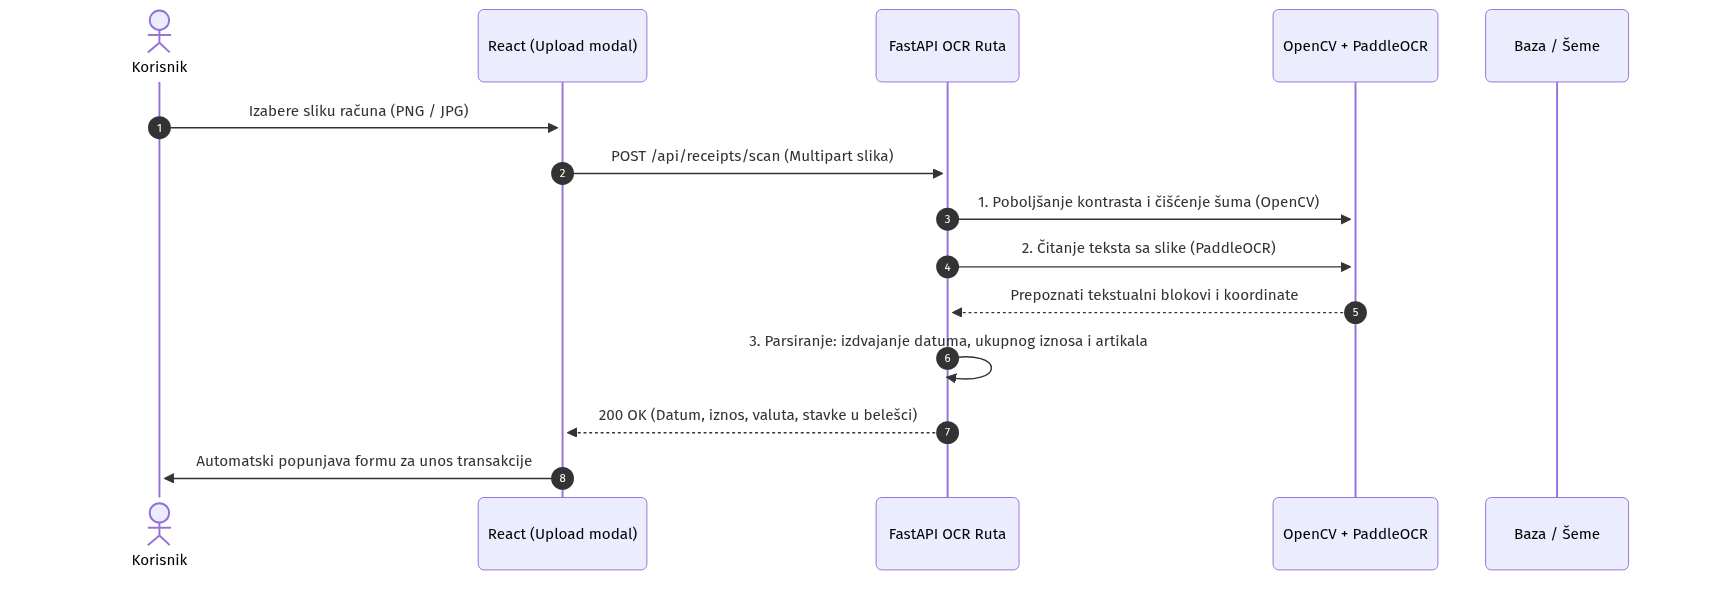
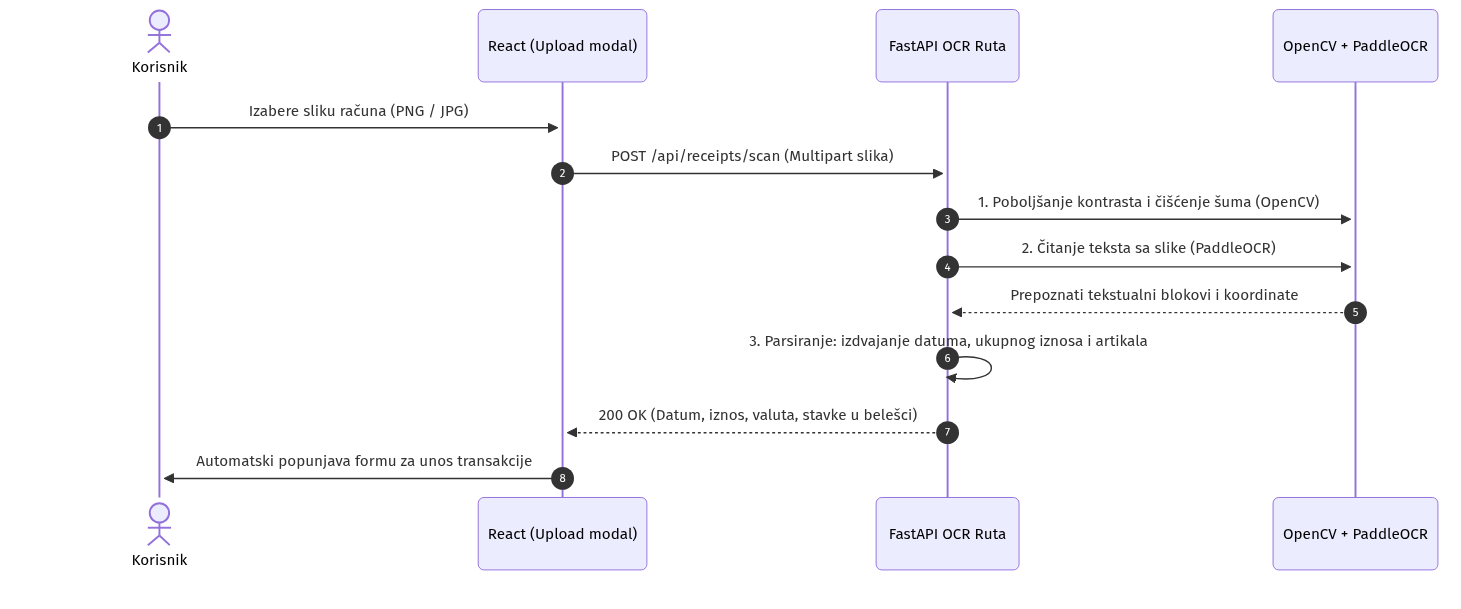
remove unused table

diff --git a/backend/alembic/versions/96ee14c735aa_initial_migration.py b/backend/alembic/versions/96ee14c735aa_initial_migration.py
@@ -178,34 +178,9 @@ def upgrade() -> None:
         if 'secondary_currency' in tx_cols:
             op.drop_column('transactions', 'secondary_currency')
 
-    # 5. Receipts table
-    if 'receipts' not in existing_tables:
-        op.create_table(
-            'receipts',
-            sa.Column('id', sa.Integer(), autoincrement=True, nullable=False),
-            sa.Column('transaction_id', sa.Integer(), nullable=True),
-            sa.Column('image_path', sa.String(length=500), nullable=False),
-            sa.Column('ocr_raw_text', sa.Text(), nullable=True),
-            sa.Column('created_at', sa.DateTime(timezone=True), server_default=sa.text('CURRENT_TIMESTAMP'), nullable=False),
-            sa.ForeignKeyConstraint(['transaction_id'], ['transactions.id'], ondelete='SET NULL'),
-            sa.PrimaryKeyConstraint('id'),
-            sa.UniqueConstraint('transaction_id'),
-        )
-        op.create_index(op.f('ix_receipts_id'), 'receipts', ['id'], unique=False)
-    else:
-        rec_cols = {c['name']: c for c in inspector.get_columns('receipts')}
-        if 'transaction_id' not in rec_cols:
-            op.add_column('receipts', sa.Column('transaction_id', sa.Integer(), nullable=True))
-        if 'image_path' not in rec_cols:
-            op.add_column('receipts', sa.Column('image_path', sa.String(length=500), server_default='', nullable=False))
-        if 'ocr_raw_text' not in rec_cols:
-            op.add_column('receipts', sa.Column('ocr_raw_text', sa.Text(), nullable=True))
-
 
 def downgrade() -> None:
     """Downgrade schema."""
-    op.drop_index(op.f('ix_receipts_id'), table_name='receipts')
-    op.drop_table('receipts')
     op.drop_index(op.f('ix_transactions_user_id'), table_name='transactions')
     op.drop_index(op.f('ix_transactions_to_account_id'), table_name='transactions')
     op.drop_index(op.f('ix_transactions_tag'), table_name='transactions')

diff --git a/backend/app/models/transaction.py b/backend/app/models/transaction.py
@@ -9,7 +9,6 @@ if TYPE_CHECKING:
     from app.models.user import User
     from app.models.account import Account
     from app.models.category import Category
-    from app.models.receipt import Receipt
 
 
 class Transaction(Base):
@@ -39,12 +38,6 @@ class Transaction(Base):
     account: Mapped["Account"] = relationship("Account", foreign_keys=[account_id], back_populates="transactions")
     to_account: Mapped[Optional["Account"]] = relationship("Account", foreign_keys=[to_account_id])
     category: Mapped[Optional["Category"]] = relationship("Category", back_populates="transactions")
-    receipt: Mapped[Optional["Receipt"]] = relationship(
-        "Receipt",
-        back_populates="transaction",
-        uselist=False,
-        cascade="all, delete-orphan"
-    )
 
     def __repr__(self) -> str:
         return f"<Transaction(id={self.id}, type='{self.type}', amount={self.amount} {self.currency}, date={self.date})>"

diff --git a/backend/app/models/__init__.py b/backend/app/models/__init__.py
@@ -3,7 +3,6 @@ from app.models.user import User
 from app.models.account import Account
 from app.models.category import Category
 from app.models.transaction import Transaction
-from app.models.receipt import Receipt
 from app.models.enums import (
     AccountType,
     TransactionType,
@@ -20,7 +19,6 @@ __all__ = [
     "Account",
     "Category",
     "Transaction",
-    "Receipt",
     "AccountType",
     "TransactionType",
     "CategoryType",

diff --git a/backend/app/api/v1/endpoints/settings.py b/backend/app/api/v1/endpoints/settings.py
@@ -1,3 +1,4 @@
+from decimal import Decimal
 from typing import List
 from fastapi import APIRouter
 
